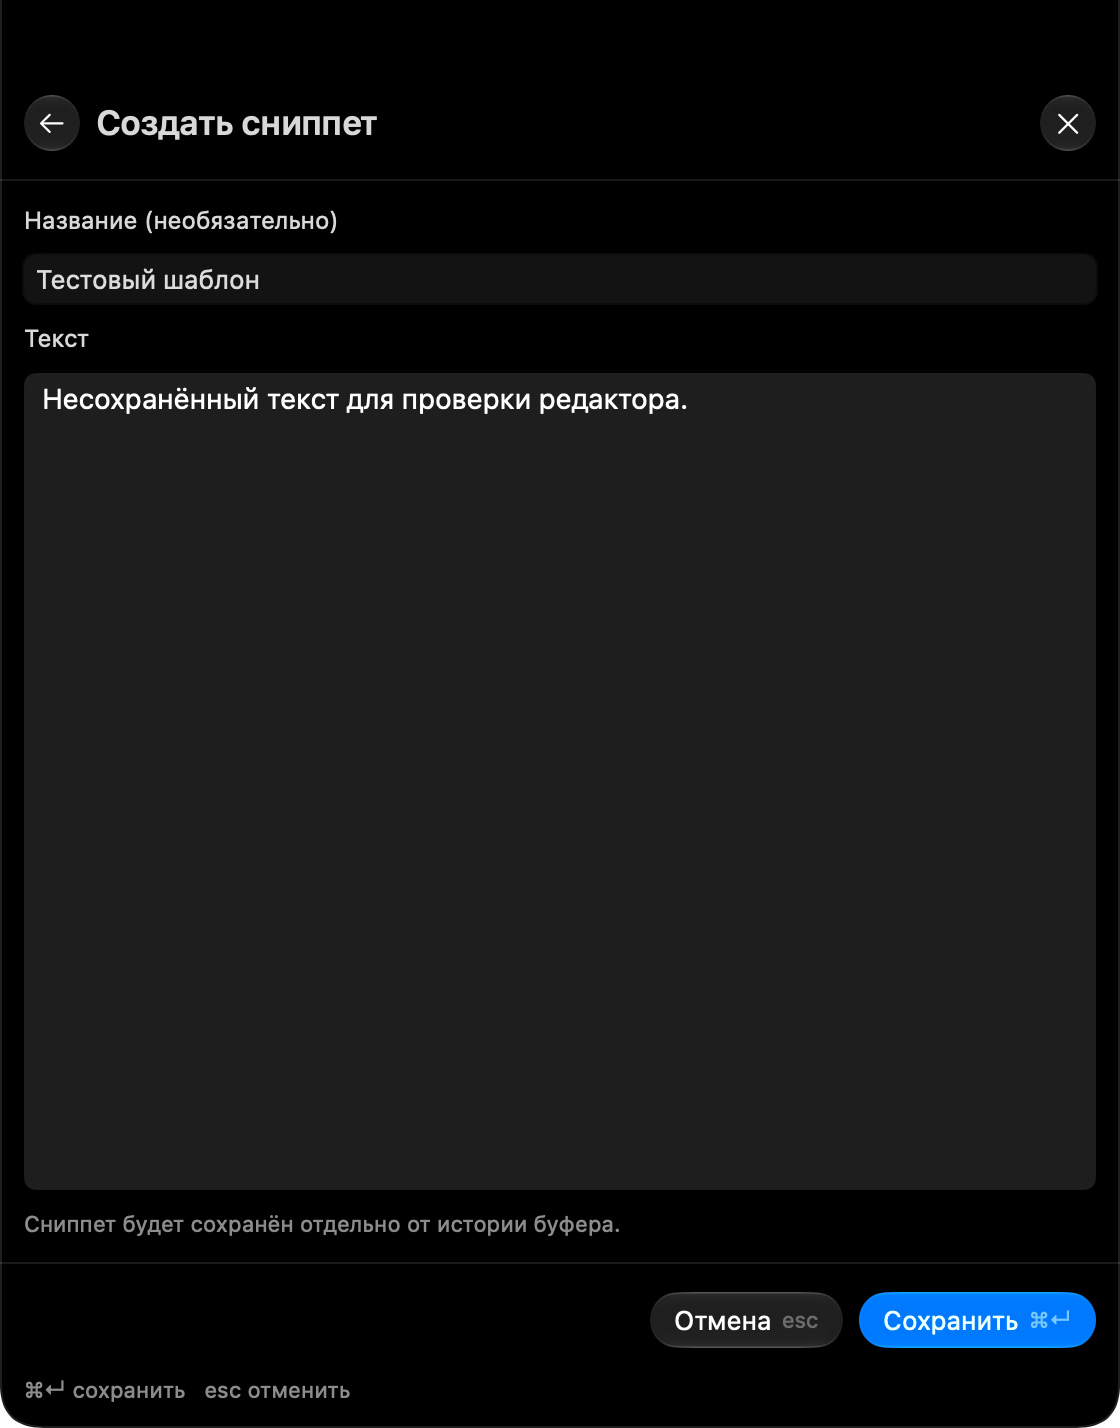
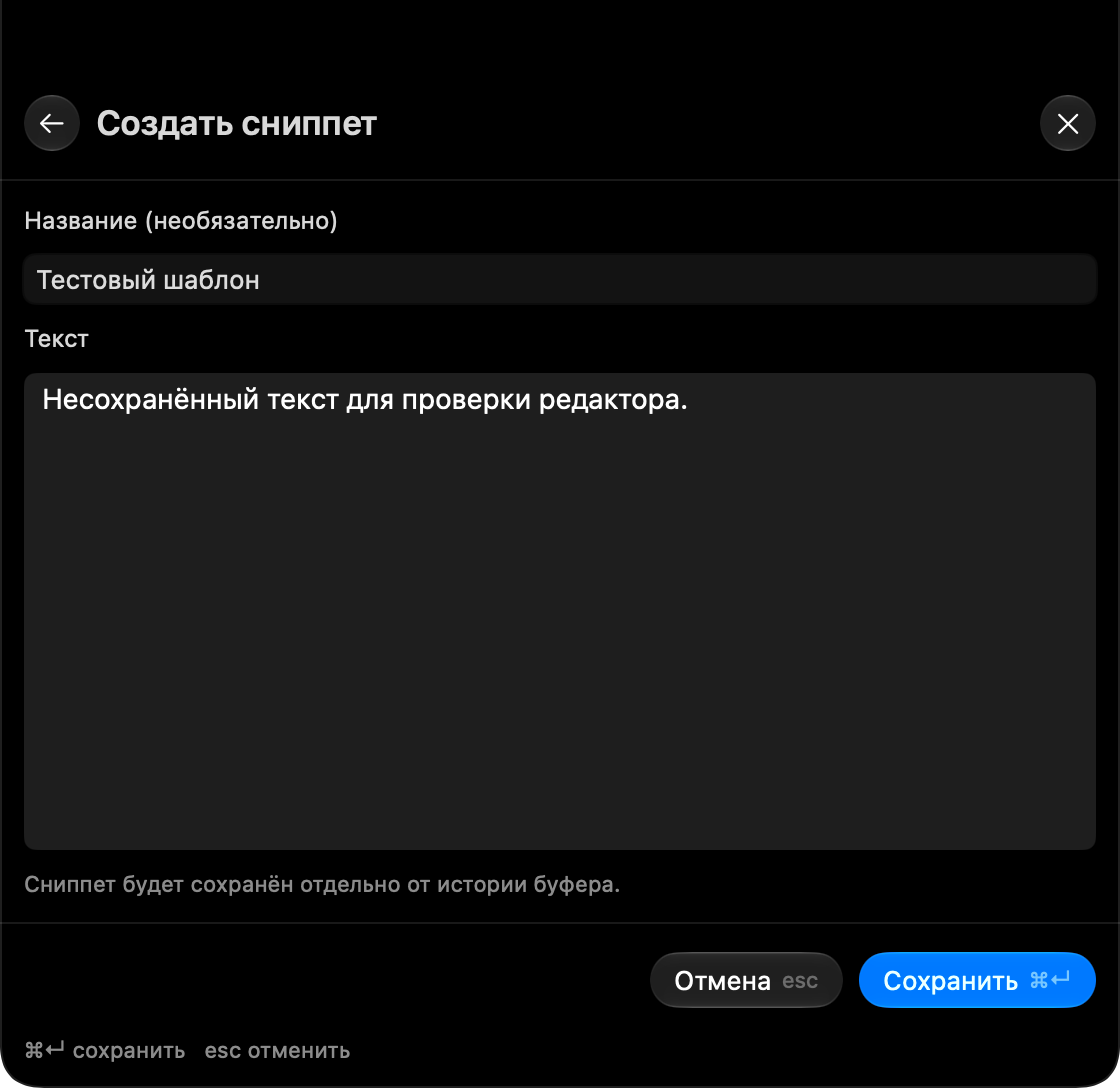
Keep snippet editor at standard shelf height and refresh promo capture

diff --git a/native-app/Sources/PolkaApp/UI/NativeSmokeFlows.swift b/native-app/Sources/PolkaApp/UI/NativeSmokeFlows.swift
@@ -333,6 +333,7 @@ import SwiftUI
       }
     }
     let standardWidth = shelf.frame.width
+    let standardHeight = shelf.frame.height
     trace("shared built-in controls")
     var backFrame: NSRect?
     var selectFrame: NSRect?
@@ -687,6 +688,9 @@ import SwiftUI
       if abs(shelf.frame.width - standardWidth) > 1 {
         failures.append("existing snippet editor is wider than launcher")
       }
+      if abs(shelf.frame.height - standardHeight) > 1 {
+        failures.append("existing snippet editor height differs from launcher")
+      }
       post(53)
       if !(await wait({ model.draft == nil })) {
         failures.append("posted Escape did not cancel existing snippet editor")
@@ -703,6 +707,17 @@ import SwiftUI
     await screenshot("snippet-editor")
     if abs(shelf.frame.width - standardWidth) > 1 {
       failures.append("new snippet editor is wider than launcher")
+    }
+    if abs(shelf.frame.height - standardHeight) > 1 {
+      failures.append("new snippet editor height differs from launcher")
+    }
+    if let save = accessible("snippet-save") {
+      let frame = save.accessibilityFrame()
+      if !shelf.frame.contains(frame) || frame.height < 20 {
+        failures.append("snippet save control is clipped at standard shelf height")
+      }
+    } else {
+      failures.append("snippet save control is missing at standard shelf height")
     }
     post(53)
     if !(await wait({ model.draft == nil })) {

diff --git a/website/tests/landing.test.js b/website/tests/landing.test.js
@@ -76,6 +76,7 @@ for (const width of [390, 1440]) {
   test(`all captures load and fit at ${width}px`, async ({ page }) => {
     await page.setViewportSize({ width, height: 1000 });
     await page.goto('/');
+    let standardSize;
     for (const name of ['Apps', 'Clipboard', 'Snippets', 'Emoji', 'Files']) {
       await page.getByRole('tab', { name, exact: true }).click();
       const image = page.getByRole('tabpanel').locator('img');
@@ -84,6 +85,9 @@ for (const width of [390, 1440]) {
         .toBe(true);
       const bounds = await image.boundingBox();
       const frame = await page.locator('.desktop').boundingBox();
+      standardSize ??= { width: bounds.width, height: bounds.height };
+      expect(bounds.width).toBeCloseTo(standardSize.width, 0);
+      expect(bounds.height).toBeCloseTo(standardSize.height, 0);
       expect(bounds.x).toBeGreaterThanOrEqual(frame.x);
       expect(bounds.x + bounds.width).toBeLessThanOrEqual(frame.x + frame.width);
       expect(bounds.y + bounds.height).toBeLessThanOrEqual(frame.y + frame.height);

diff --git a/native-app/Sources/PolkaApp/NativeApplication.swift b/native-app/Sources/PolkaApp/NativeApplication.swift
@@ -450,7 +450,8 @@ final class NativeApplication: NSObject, NSApplicationDelegate, NSWindowDelegate
   }
   private func geometry() {
     let screen = presentationScreen ?? screen()
-    let expanded = model.previewID != nil || model.draft != nil
+    // Editing keeps the standard shelf height, even when opened from a preview.
+    let expanded = model.previewID != nil && model.draft == nil
     // Every shelf destination, preview and editor shares the launcher's width.
     let width = min(CGFloat(560), screen.frame.width)
     let top = screen.safeAreaInsets.top

diff --git a/native-app/Sources/PolkaApp/UI/NativeShelfPresentation.swift b/native-app/Sources/PolkaApp/UI/NativeShelfPresentation.swift
@@ -32,7 +32,7 @@ final class NativeShelfPresentationView: NSView {
     hosting.frame = bounds
     outline.frame = bounds
     if revealMask.frame != bounds || revealMask.path == nil {
-      // Window geometry changes are immediate, including preview/editor expansion.
+      // Window geometry changes are immediate, including entering and leaving a preview.
       revealMask.removeAnimation(forKey: Self.animationKey)
       updateMask()
     }

diff --git a/website/index.html b/website/index.html
@@ -158,7 +158,7 @@
                   class="app-capture"
                   src="./assets/polka-snippets.png"
                   width="1120"
-                  height="1428"
+                  height="1088"
                   alt="Polka’s native snippet editor with a title, text, and save controls."
                 />
               </div>

diff --git a/README.md b/README.md
@@ -68,7 +68,7 @@
 
 Откройте просмотр записи через **⌘ Enter** или кнопку просмотра. Для текста доступны «ПРОПИСНЫЕ» (**⌘ 1**) и «строчные» (**⌘ 2**). Просмотр сразу показывает результат; «Копировать», «Вставить» и **⇧ Enter** используют показанный текст. Оригинал в истории сохраняется, а **⌘ 3** возвращает его в просмотр. **Backspace** возвращает из просмотра к списку с прежним запросом, а из пустого поиска истории — к приложениям; в непустом поиске он удаляет текст.
 
-Текст в просмотре можно выделять и прокручивать по вертикали и горизонтали, в том числе длинные строки и записи до 1 МБ. Просмотр записи и редактор сниппета сохраняют ширину главной полки. Если вся текстовая запись — цвет в формате `#RGB`, `#RGBA`, `#RRGGBB`, `#RRGGBBAA`, `rgb()`, `rgba()`, `hsl()` или `hsla()`, история показывает образец цвета, а просмотр — увеличенный образец с прозрачностью. Исходный текст при поиске, копировании и вставке не заменяется значением цвета.
+Текст в просмотре можно выделять и прокручивать по вертикали и горизонтали, в том числе длинные строки и записи до 1 МБ. Просмотр записи и редактор сниппета сохраняют ширину главной полки. Редактор сниппета также сохраняет её высоту; длинный текст прокручивается внутри поля. Если вся текстовая запись — цвет в формате `#RGB`, `#RGBA`, `#RRGGBB`, `#RRGGBBAA`, `rgb()`, `rgba()`, `hsl()` или `hsla()`, история показывает образец цвета, а просмотр — увеличенный образец с прозрачностью. Исходный текст при поиске, копировании и вставке не заменяется значением цвета.
 
 История, сниппеты, эмодзи и файлы используют общие кнопки «Назад» и «Закрыть полку». В истории, сниппетах и эмодзи нижняя панель показывает основную команду для выбранной записи: «Вставить» (**Enter**) при доступной автовставке, иначе «Копировать». При автовставке рядом доступна отдельная команда «Копировать» (**⇧ Enter**).
 

diff --git a/website/README.md b/website/README.md
@@ -1,6 +1,6 @@
 # Polka promo site
 
-A standalone static site using Polka’s logo and ivory, terracotta, and graphite palette. Copy follows the native Swift app and the v0.9.0 release (source commit `7681f99`). Assets, fonts, and scripts are local; there are no analytics.
+A standalone static site using Polka’s logo and ivory, terracotta, and graphite palette. Copy follows the native Swift app and the v0.9.0 release (source commit `7681f99`), with the snippet editor height fix in this branch. Assets, fonts, and scripts are local; there are no analytics.
 
 The website has its own Node tooling. The native app remains independent of npm.
 
@@ -19,7 +19,7 @@ Deploy `website/dist` to a static host. Assets use relative paths, including whe
 
 Hero images are unedited captures from the native Swift app's desktop harness, using an isolated profile and synthetic data. The surrounding wallpaper is decorative. From the repository root, run `./polka desktop core`; the harness owns the shared desktop lock and writes captures to `artifacts/desktop/native-smoke/`.
 
-Copy `launcher.png`, `clipboard-color-history.png`, `snippet-editor.png`, `emoji.png`, and `files-selection.png` to their corresponding `website/assets/polka-*.png` files. The launcher frame shows the built-in tools from the isolated fixture. No personal clipboard or Keychain data is used. For these compositor-backed Liquid Glass images, we used `POLKA_NATIVE_SMOKE_WINDOW_CAPTURE=1` and temporarily extended its named-frame filter to the five frames above. That capture-only edit is not shipped. The default bitmap path can omit SwiftUI content; inspect every regenerated frame before replacing an asset. Window capture requires screen capture access.
+Copy `launcher.png`, `clipboard-color-history.png`, `snippet-editor.png`, `emoji.png`, and `files-selection.png` to their corresponding `website/assets/polka-*.png` files. The launcher frame shows the built-in tools from the isolated fixture. No personal clipboard or Keychain data is used. For these compositor-backed Liquid Glass images, we used `POLKA_NATIVE_SMOKE_WINDOW_CAPTURE=1` and temporarily extended its named-frame filter to the five frames above. That capture-only edit is not shipped. The default bitmap path can omit SwiftUI content; inspect every regenerated frame before replacing an asset. Window capture requires screen capture access. The updated snippet frame is captured directly by the supported `snippet-editor` window-capture path after fixing the editor height.
 
 ## Keyboard review
 
